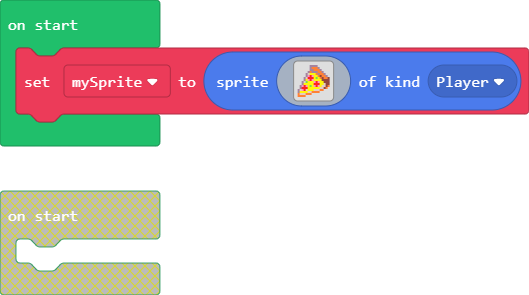
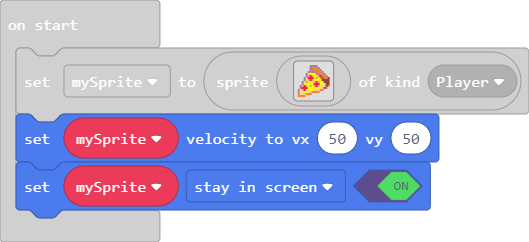
Update main.blocks, main.ts

diff --git a/main.ts b/main.ts
@@ -16,3 +16,5 @@ b 5 5 5 5 d d 4 4 4 4 . . . . .
 4 d d d 4 4 4 . . . . . . . . . 
 4 4 4 4 . . . . . . . . . . . . 
 `, SpriteKind.Player)
+mySprite.setVelocity(50, 50)
+mySprite.setFlag(SpriteFlag.StayInScreen, true)
